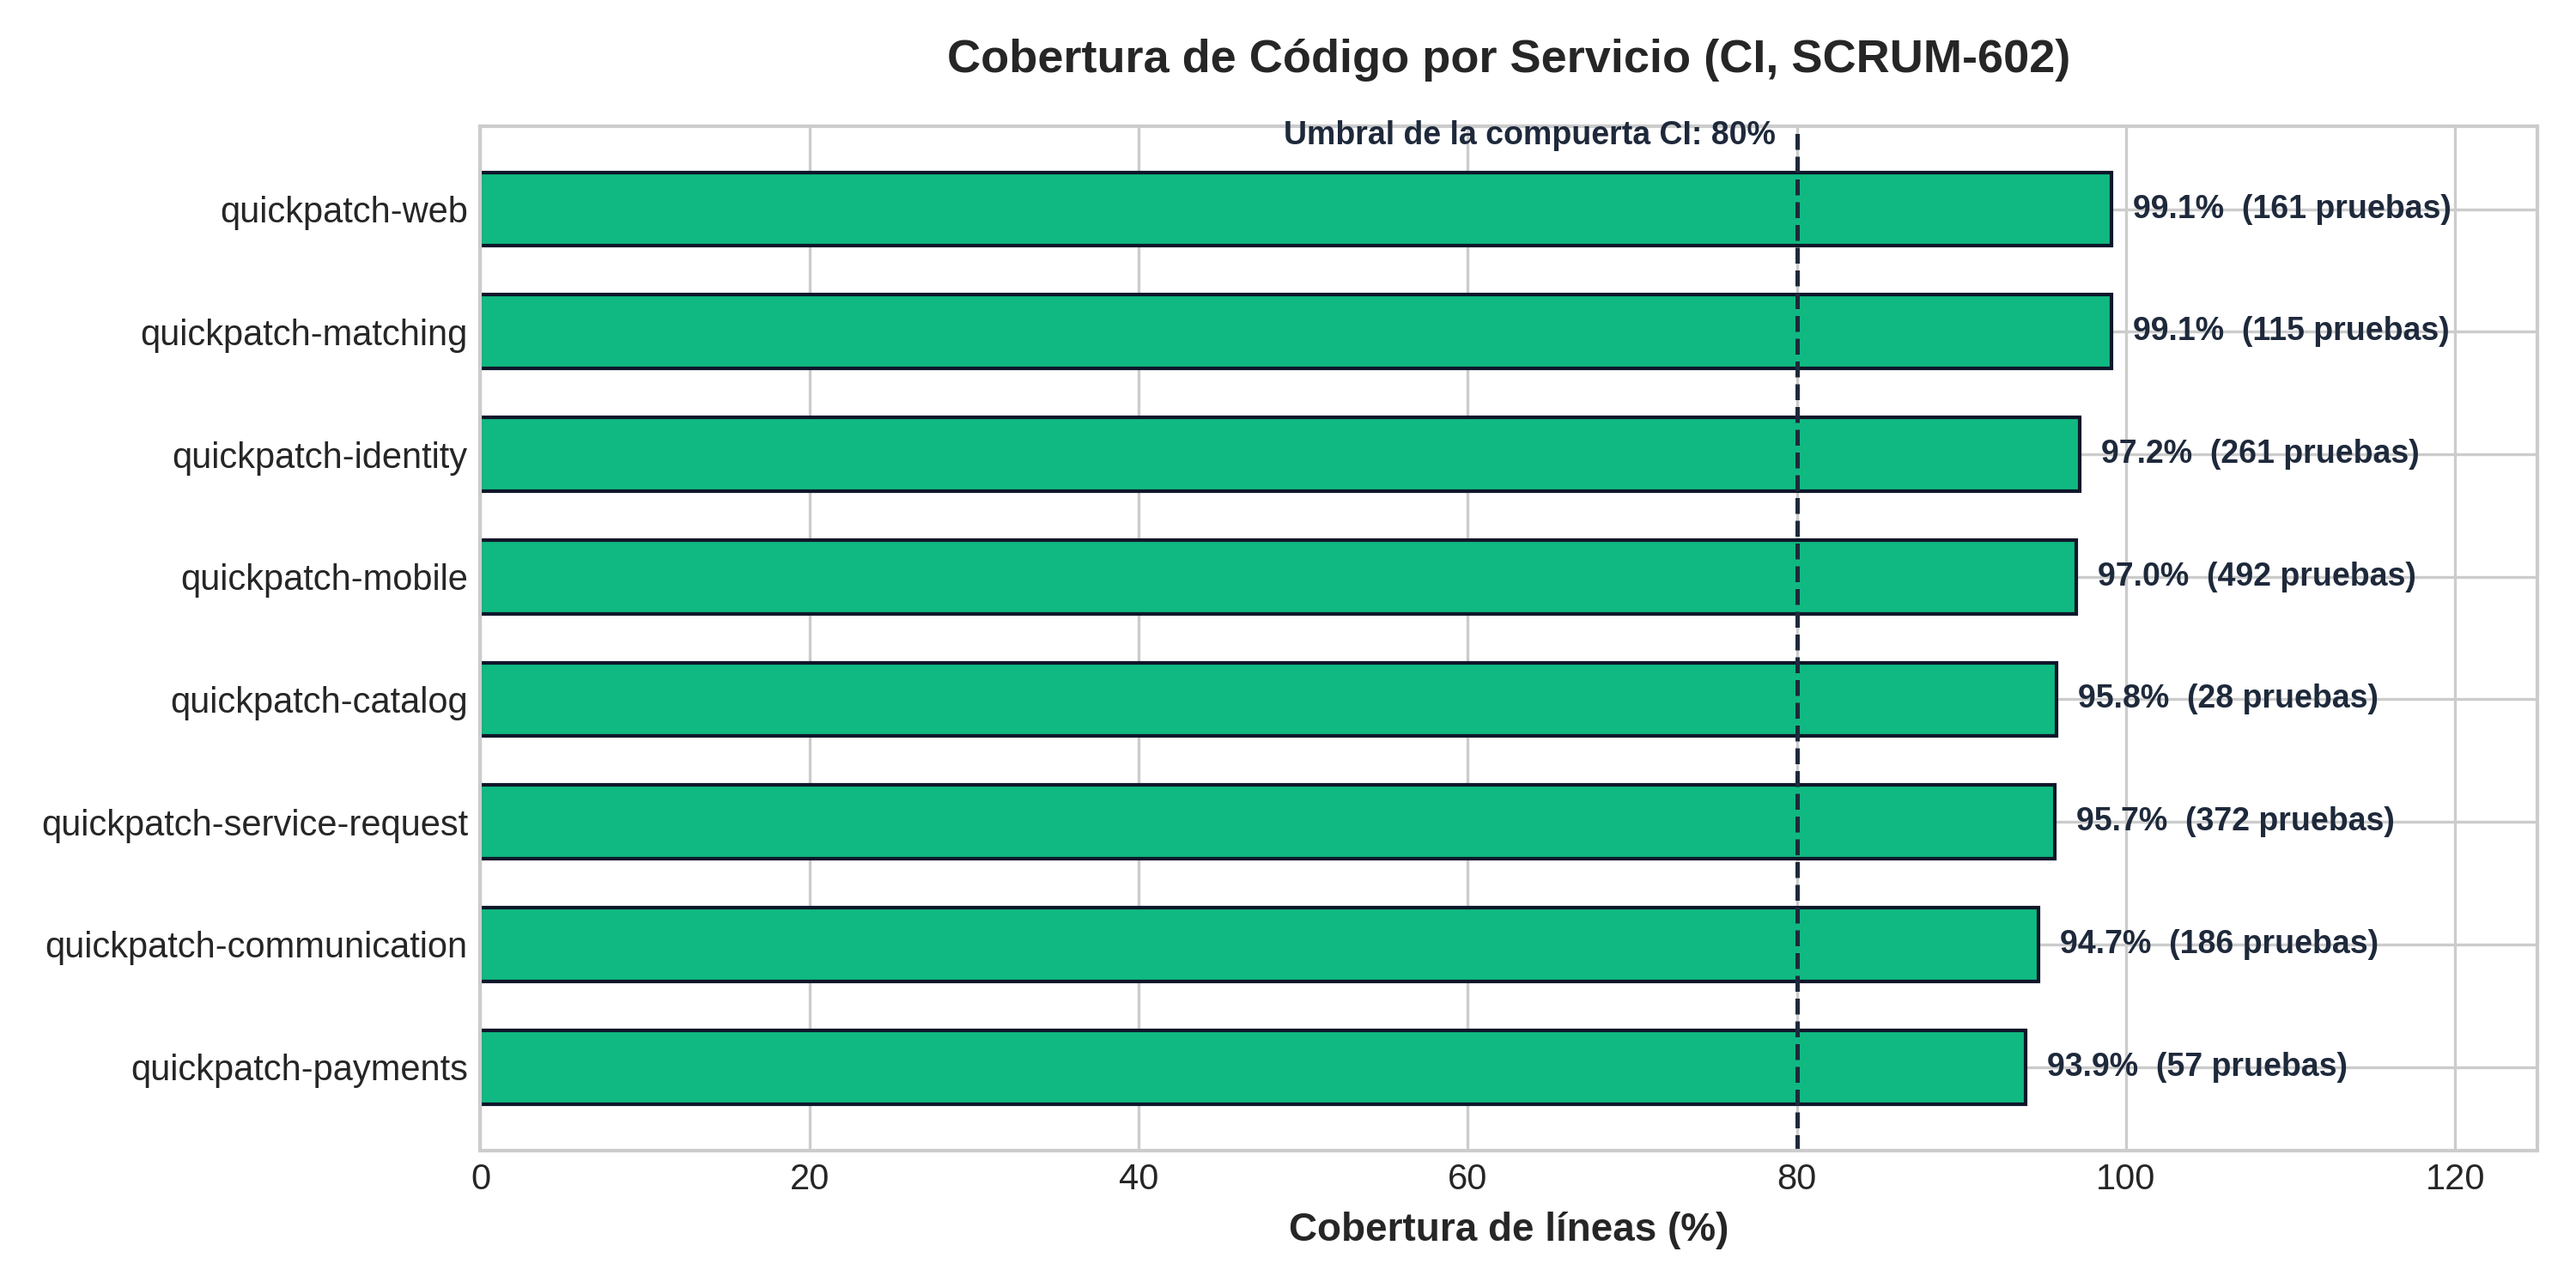
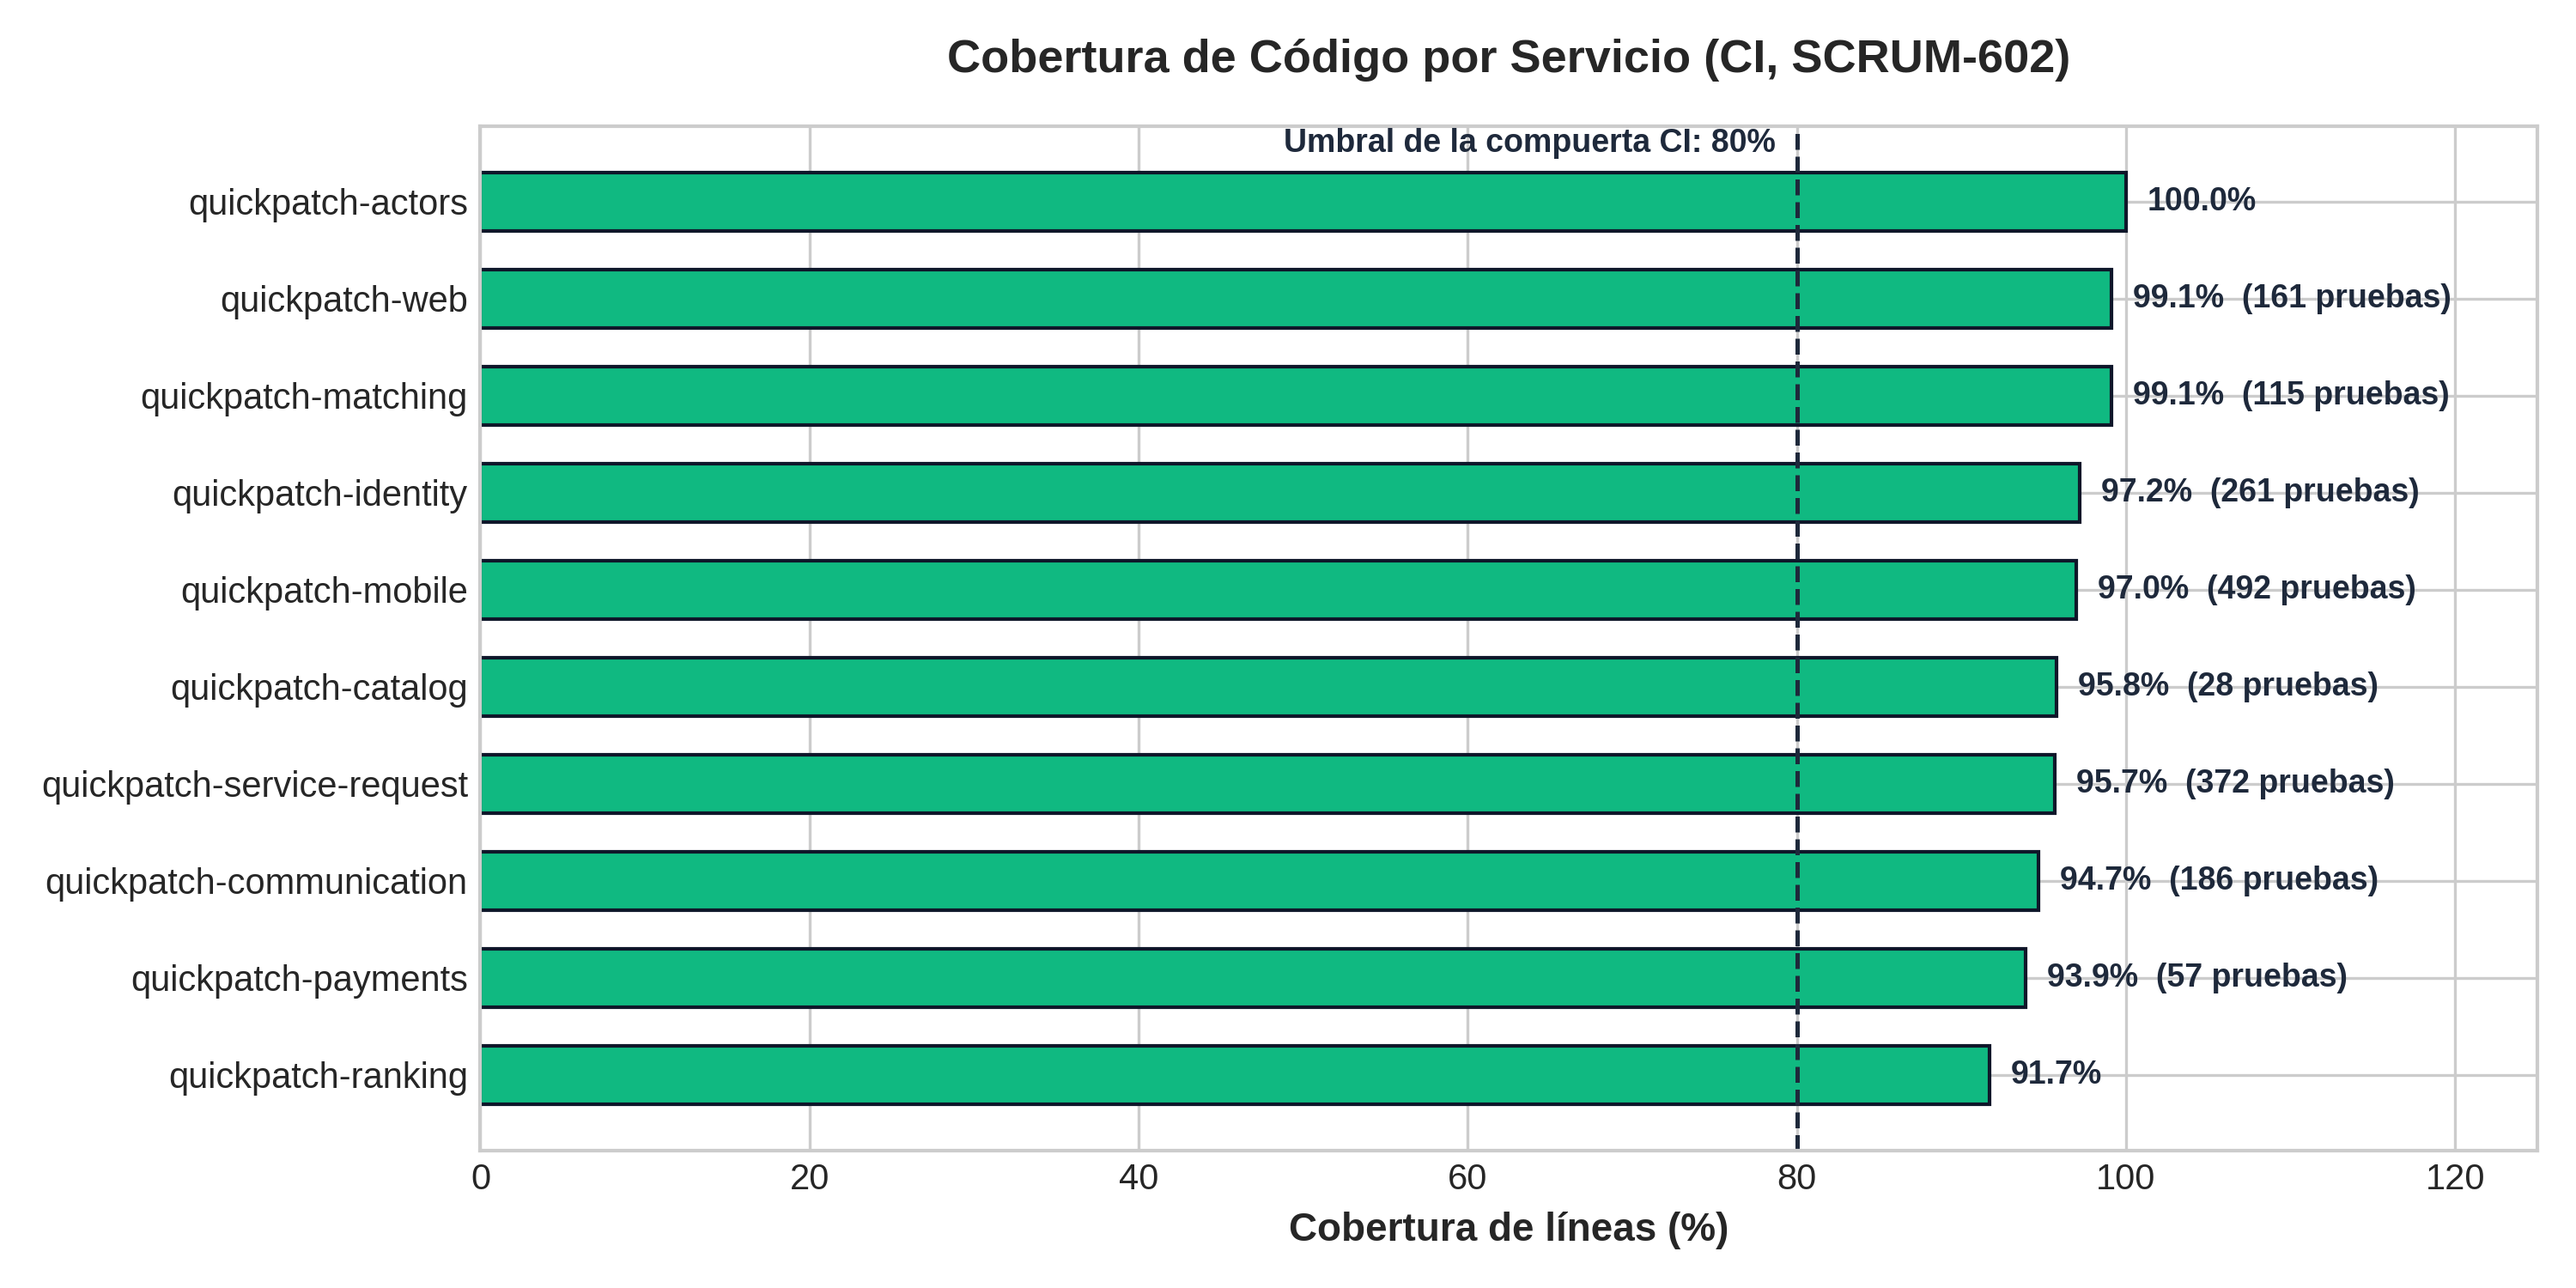
docs(qa): cobertura de Actors y Ranking en las estadísticas (SCRUM-604)
Actors 100 % (corrida del 12 de octubre, servicio esqueleto) y Ranking 91,7 % (corrida del 28 de octubre). El rango de cobertura pasa a 91,7 % – 100 % en 10 repositorios.

diff --git a/scripts/generar_estadisticas_qa.py b/scripts/generar_estadisticas_qa.py
@@ -507,7 +507,8 @@ def generate_charts(ci_data, e2e_data, sec_data, defects, cov_map):
     ax.set_xlim(0, 125)
 
     for bar, (k, v) in zip(bars, orden):
-        ax.annotate(f"{v['cobertura']:.1f}%  ({v['pruebas']} pruebas)",
+        etiqueta = f"{v['cobertura']:.1f}%" + (f"  ({v['pruebas']} pruebas)" if v.get('pruebas') else '')
+        ax.annotate(etiqueta,
                     xy=(bar.get_width(), bar.get_y() + bar.get_height() / 2),
                     xytext=(6, 0), textcoords="offset points",
                     ha='left', va='center', fontsize=9, fontweight='bold', color='#1E293B')
@@ -559,16 +560,20 @@ def generate_markdown(ci_data, e2e_data, sec_data, k6_data, defects, cov_map):
     md.append("|---|:---:|:---:|:---:|")
     for k, v in sorted(cov_map['servicios'].items(), key=lambda kv: -kv[1]['cobertura']):
         cumple = 'Sí' if v['cobertura'] >= umbral else 'No'
-        md.append(f"| `quickpatch-{k}` | {v['pruebas']:,} | **{v['cobertura']:.1f}%** | {cumple} |")
+        pruebas = f"{v['pruebas']:,}" if v.get('pruebas') else '—'
+        md.append(f"| `quickpatch-{k}` | {pruebas} | **{v['cobertura']:.1f}%** | {cumple} |")
     sin_dato = cov_map.get('sin_dato', [])
     md.append("")
+    notas = cov_map.get('notas', {})
+    if notas:
+        md.append("> **Notas por repositorio:** " + '; '.join(f"`quickpatch-{k}`: {v}" for k, v in notas.items()) + ".\n")
     if sin_dato:
         md.append(f"> **Servicios sin dato de cobertura:** {', '.join('`quickpatch-' + x + '`' for x in sin_dato)}. SCRUM-602 no reportó cobertura para ellos; la columna queda como *Sin dato* y no se estima.\n")
     difs = []
     for s in ci_data:
         key = 'service-request' if s['service'] == 'ServiceRequest' else ('mobile' if s['service'].startswith('Mobile') else s['service'].lower())
         v = cov_map['servicios'].get(key)
-        if v and v['pruebas'] != s['total']:
+        if v and v.get('pruebas') and v['pruebas'] != s['total']:
             difs.append(f"`quickpatch-{key}` ({s['total']} en la tabla, {v['pruebas']} en la corrida de cobertura)")
     if difs:
         md.append("> **Diferencias de conteo:** " + '; '.join(difs) + ". La tabla de pruebas usa los resultados archivados en `tests/ci-results/`; la cobertura viene de la última corrida de `develop` reportada en SCRUM-602, que es posterior.\n")

diff --git a/docs/testing/estadisticas-pruebas-sprint5.md b/docs/testing/estadisticas-pruebas-sprint5.md
@@ -16,22 +16,23 @@ Las pruebas reales ejecutadas por los pipelines de CI en cada microservicio y en
 | Componente / Repositorio | Último Run / Tag | Unitarias | Integración | Total Pruebas | Pasan | Fallan | Cobertura de Código |
 |---|:---:|:---:|:---:|:---:|:---:|:---:|:---:|
 | **quickpatch-identity** | Run #57 | 229 | 32 | **261** | 261 | 0 | *97.2%* |
-| **quickpatch-actors** | Run #12 | 6 | 2 | **8** | 8 | 0 | *Sin dato* |
+| **quickpatch-actors** | Run #12 | 6 | 2 | **8** | 8 | 0 | *100.0%* |
 | **quickpatch-catalog** | Run #32 | 20 | 8 | **28** | 28 | 0 | *95.8%* |
 | **quickpatch-communication** | Run #45 | 178 | 8 | **186** | 186 | 0 | *94.7%* |
 | **quickpatch-matching** | Run #41 | 89 | 26 | **115** | 115 | 0 | *99.1%* |
 | **quickpatch-payments** | Run #25 | 54 | 0 | **54** | 54 | 0 | *93.9%* |
-| **quickpatch-ranking** | Run #12 | 6 | 2 | **8** | 8 | 0 | *Sin dato* |
+| **quickpatch-ranking** | Run #12 | 6 | 2 | **8** | 8 | 0 | *91.7%* |
 | **quickpatch-servicerequest** | Run #68 | 324 | 48 | **372** | 372 | 0 | *95.7%* |
 | **quickpatch-mobile (app flutter)** | Run #Tag v0.5.1 | 462 | 31 | **493** | 493 | 0 | *97.0%* |
-| **TOTAL UNITARIAS E INTEGRACIÓN** | — | **1,368** | **157** | **1,525** | **1,525** | **0** | *93.9% – 99.1%* |
+| **TOTAL UNITARIAS E INTEGRACIÓN** | — | **1,368** | **157** | **1,525** | **1,525** | **0** | *91.7% – 100.0%* |
 
 ### Cobertura de código por servicio (SCRUM-602)
 
-Fuente: `tests/ci-results/cobertura-scrum-602.json` (Jira SCRUM-602 (Extraer conteos y cobertura de los pipelines de cada repositorio), ultima ejecucion de develop de cada repositorio, reportado el 2026-10-26). Umbral de la Compuerta 1 del Documento de Pruebas: **80%**.
+Fuente: `tests/ci-results/cobertura-scrum-602.json` (Jira SCRUM-602 (Extraer conteos y cobertura de los pipelines de cada repositorio), ultima ejecucion de develop de cada repositorio, reportado el 2026-10-26; actors y ranking confirmados en la revision del PR #220). Umbral de la Compuerta 1 del Documento de Pruebas: **80%**.
 
 | Repositorio | Pruebas en la corrida de cobertura | Cobertura | ¿Cumple el umbral? |
 |---|:---:|:---:|:---:|
+| `quickpatch-actors` | — | **100.0%** | Sí |
 | `quickpatch-matching` | 115 | **99.1%** | Sí |
 | `quickpatch-web` | 161 | **99.1%** | Sí |
 | `quickpatch-identity` | 261 | **97.2%** | Sí |
@@ -40,8 +41,9 @@ Fuente: `tests/ci-results/cobertura-scrum-602.json` (Jira SCRUM-602 (Extraer con
 | `quickpatch-service-request` | 372 | **95.7%** | Sí |
 | `quickpatch-communication` | 186 | **94.7%** | Sí |
 | `quickpatch-payments` | 57 | **93.9%** | Sí |
+| `quickpatch-ranking` | — | **91.7%** | Sí |
 
-> **Servicios sin dato de cobertura:** `quickpatch-actors`, `quickpatch-ranking`. SCRUM-602 no reportó cobertura para ellos; la columna queda como *Sin dato* y no se estima.
+> **Notas por repositorio:** `quickpatch-ranking`: corrida de CI del 2026-10-28; `quickpatch-actors`: corrida de CI del 2026-10-12; el servicio es un esqueleto.
 
 > **Diferencias de conteo:** `quickpatch-payments` (54 en la tabla, 57 en la corrida de cobertura); `quickpatch-mobile` (493 en la tabla, 492 en la corrida de cobertura). La tabla de pruebas usa los resultados archivados en `tests/ci-results/`; la cobertura viene de la última corrida de `develop` reportada en SCRUM-602, que es posterior.
 
@@ -105,7 +107,7 @@ Ver detalle exhaustivo en: [`registro-defectos-sprint4-sprint5.md`](registro-def
 * **Total de Pruebas Reales Automatizadas:** **2,469 pruebas / aserciones** (1,525 unitarias/integración + 931 E2E + 13 seguridad).
 * **Tasa de Aprobación de Pruebas:** **100.0% PASS (0 fallos en runs oficiales)**.
 * **Capacidad de Carga k6:** **38,876 peticiones procesadas** con 0.00% de errores y p95 de 415.39 ms bajo 150 VU.
-* **Cobertura de Código en CI (SCRUM-602):** **93.9% – 99.1%** en 8 repositorios; todos sobre el umbral de 80%.
+* **Cobertura de Código en CI (SCRUM-602):** **91.7% – 100.0%** en 10 repositorios; todos sobre el umbral de 80%.
 * **Aislamiento Multi-Tenant (RLS) y Seguridad PCI-DSS:** 100% verificado en QA.
 * **Avance Preliminar del Producto (Matriz Excel UAT):** **74.93%** (Meta Sprint 4: 80% / Brecha: -5.07%).
 * **% Funcionalidades Implementadas (Develop):** **94.12%** (32 / 34 pts).
